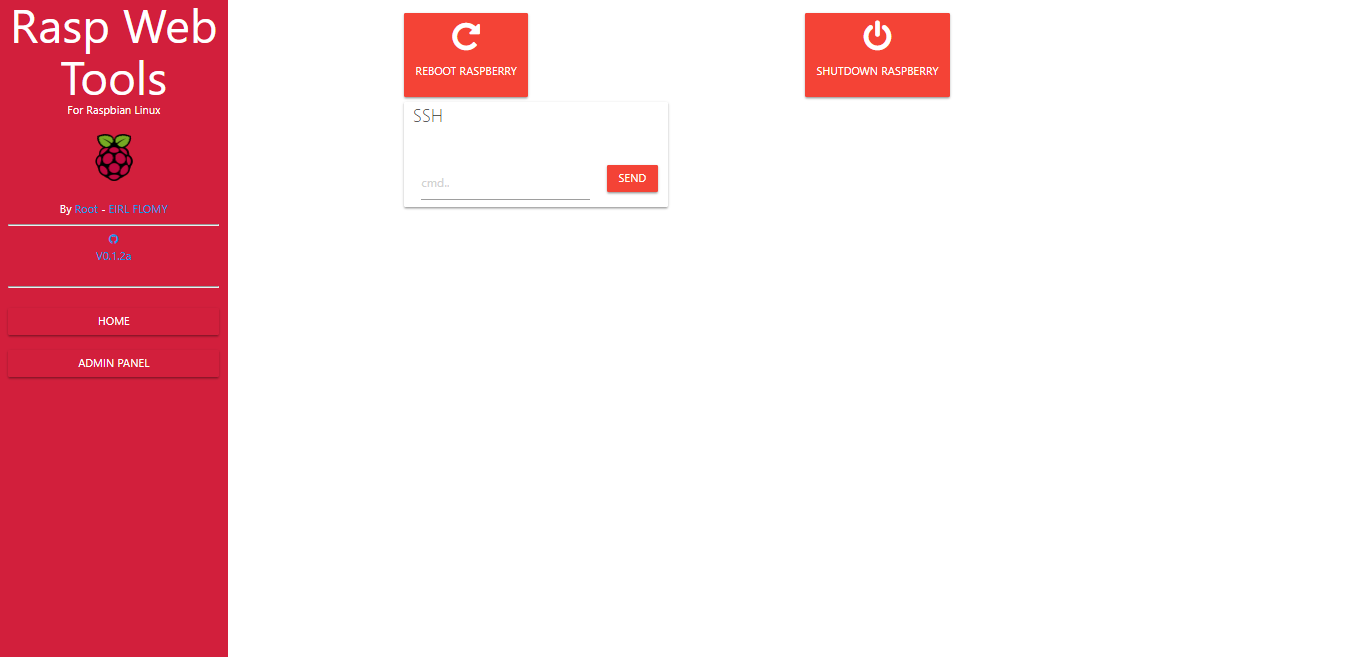
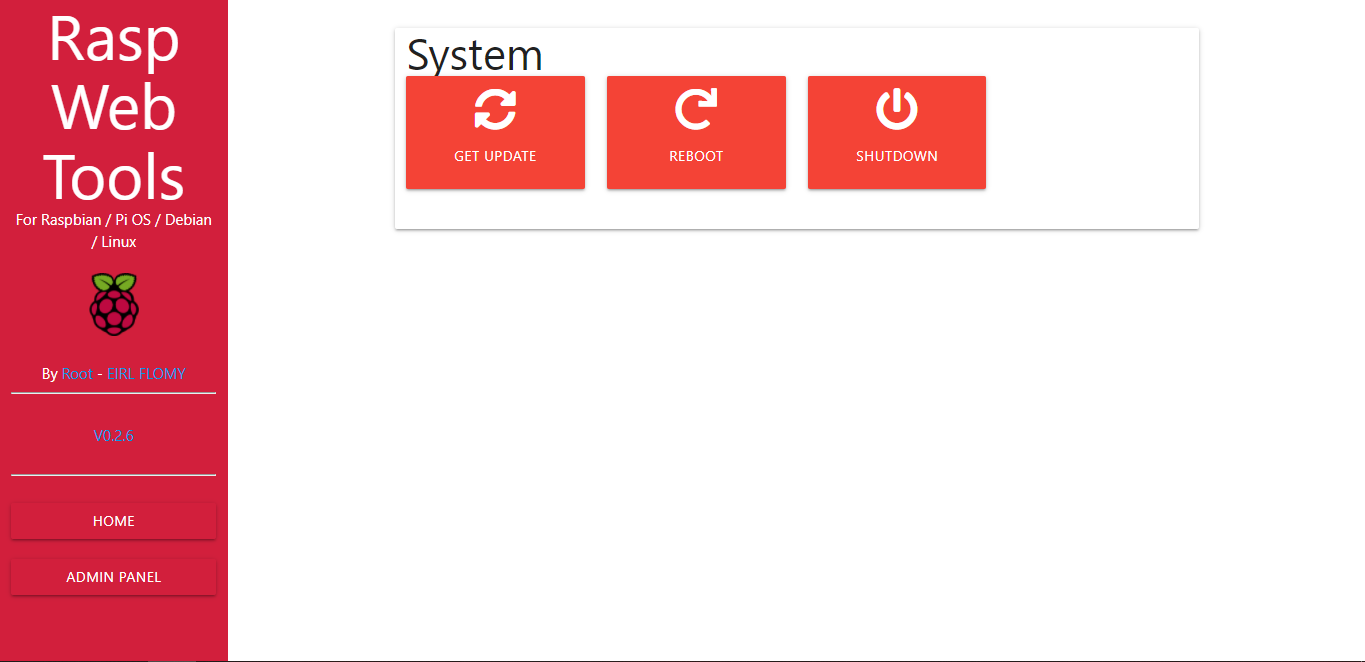
interface admin changed / added update & upgrade button / added email function (see config)

diff --git a/stats/config/index.js b/stats/config/index.js
@@ -20,7 +20,7 @@ class Config{
     MAIL_PORT = '465' // PORT OF MAIL SERVICE
     MAIL_SECURE = true; // true if port 465; false if other port
 
-    MAIL_FROM = ""; // EMAIL TO SEND MESSAGE
+    MAIL_FROM = "contact@yourstories.fr"; // EMAIL TO SEND MESSAGE
     MAIL_TO = "" // EMAIL ADRESS WHO RECEIVE MESSAGE
 }
 

diff --git a/index.html b/index.html
@@ -46,7 +46,7 @@
 							<hr>
 							<a href="https://github.com/R0ot16/rasp-web-tools" target="_blank">
 								<i class="fa fa-github"></i> <br>
-								V0.2.6
+								V0.3.0
 							</a>
 						</div>
 					</div>

diff --git a/readme.md b/readme.md
@@ -1,5 +1,5 @@
 # RASP WEB TOOLS for Raspbian Linux (beta)
-## V 0.2.6
+## V 0.3.0
 ### By Root - EIRL FLOMY
 <img src="./screen.png">
 <img src="screen2.png">
